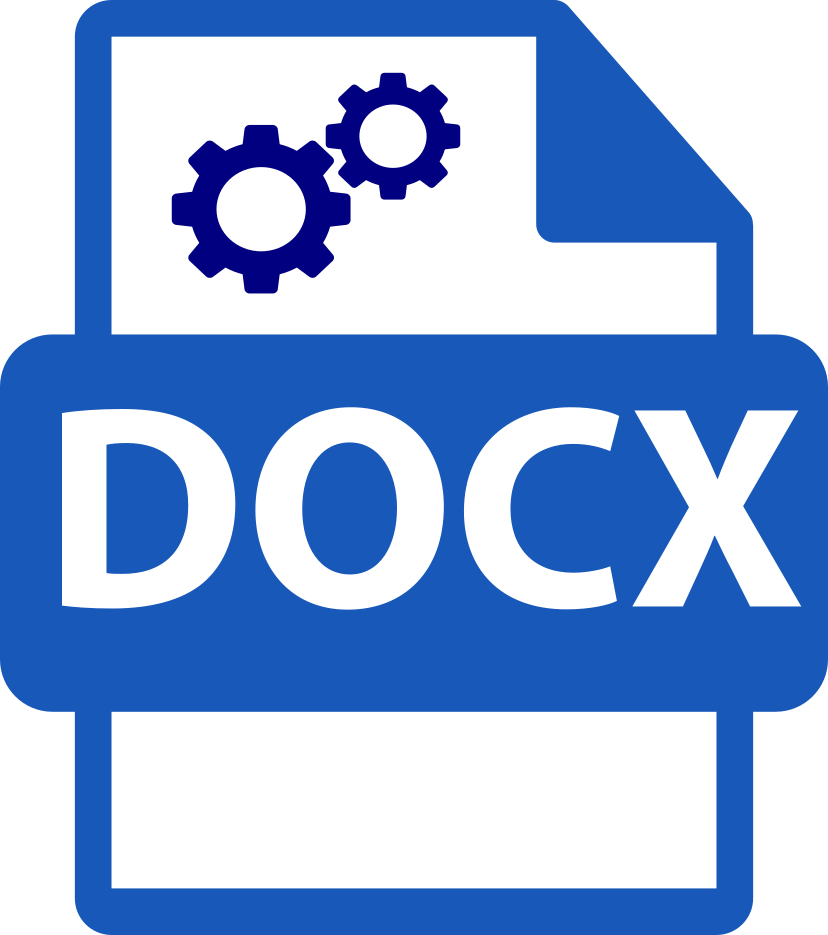
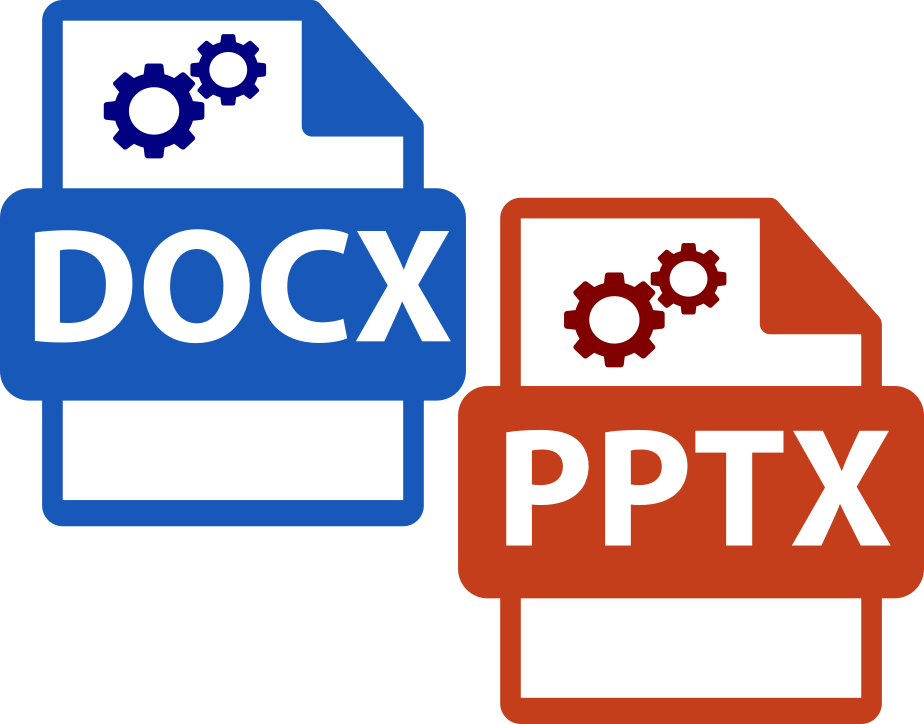
Add pptx generation

diff --git a/app.js b/app.js
@@ -1,6 +1,4 @@
-function generate() {
-    const txt = document.querySelector('#txt').value;
-
+function parse(txt) {
     const lines = txt.split('\n');
     const items = new Array();
     const re = /^(?<level>#+).*$/
@@ -19,6 +17,12 @@ function generate() {
             })
         }
     }
+    return items;
+}
+
+function generateDocx() {
+    const txt = document.querySelector('#txt').value;
+    const items = parse(txt);
 
     const body = new Array();
     for (var i = 0; i < items.length; i++) {
@@ -46,4 +50,81 @@ function generate() {
         saveAs(blob, "generated.docx");
         console.log("Document created successfully");
     });
+}
+
+function generatePptx() {
+    const TITLE_SLIDE = "Title";
+    const TITLE_CONTENTS_SLIDE = "Title and Contents";
+
+    const txt = document.querySelector('#txt').value;
+    const items = parse(txt);
+
+    const pptx = new PptxGenJS();
+
+    pptx.defineSlideMaster({
+        title: TITLE_SLIDE,
+        type: 'ctrTitle',
+        objects: [{
+            placeholder: {
+                options: { name: "title", type: "title", x: 1.25, y: 0.92, w: 7.5, h: 1.95 },
+            },
+        }, ],
+    });
+
+    pptx.defineSlideMaster({
+        title: TITLE_CONTENTS_SLIDE,
+        type: 'ctr',
+        objects: [{
+                placeholder: {
+                    options: { name: "title", type: "title", x: 0.69, y: 0.3, w: 8.6, h: 1.09 },
+                },
+            },
+            {
+                placeholder: {
+                    options: { name: "body", type: "body", x: 0.7, y: 1.5, w: 8.6, h: 3.57 },
+                },
+            },
+        ],
+    });
+
+    let slide = null;
+    let body = null;
+    for (var i = 0; i < items.length; i++) {
+        const item = items[i];
+        const level = item.level;
+        const text = item.text;
+
+        if (level == 1) {
+            slide = pptx.addSlide({ masterName: TITLE_SLIDE });
+            slide.addText(text, { placeholder: "title" });
+        } else if (level == 2) {
+            if (slide != null && body != null && body.length > 0) {
+                slide.addText(body, { placeholder: "body" });
+                slide = null;
+                body = null;
+            }
+
+            slide = pptx.addSlide({ masterName: TITLE_CONTENTS_SLIDE });
+            slide.addText(text, { placeholder: "title" });
+        } else if (text != null && text.length > 0) {
+            console.log(text);
+            if (body == null) {
+                body = new Array();
+            }
+            if (level == 0) {
+                body.push({ text: text, options: { fontSize: 20, softBreakBefore: true } });
+            } else {
+                body.push({ text: text, options: { fontSize: 24 - 2 * level, indentLevel: level - 3, bullet: true } });
+            }
+        }
+    }
+
+    // For final slide
+    if (slide != null && body != null && body.length > 0) {
+        slide.addText(body, { placeholder: "body" });
+        slide = null;
+        body = null;
+    }
+
+    pptx.writeFile({ fileName: "generated.pptx" });
 }

diff --git a/index.html b/index.html
@@ -8,6 +8,8 @@
     <link rel="stylesheet" href="./style.css">
     <script src="https://unpkg.com/docx@7.1.0/build/index.js"></script>
     <script src="https://cdnjs.cloudflare.com/ajax/libs/FileSaver.js/1.3.8/FileSaver.js"></script>
+    <script src="https://cdn.jsdelivr.net/npm/pptxgenjs@3.9.0/dist/pptxgen.bundle.js"></script>
+
 
     <link id="icon" rel="icon" href="./icon.svg" type="image/svg+xml">
 
@@ -19,22 +21,31 @@
 
 <body>
     <h1 id="title">DocxGen</h1>
-    <p>Docx generator from simple text</p>
+    <p>Docx and Pptx generator from simple text</p>
     <textarea id="txt" rows="20" cols="80">
-# Title
-## Header 1
-Some text
-### Header 2
-Some text
-#### Header 3
-Some text
-##### Header 4
-Some text
-###### Header 5
-Some text
+# How to generate Docx and Pptx
 
+## You can use # mark a as a header
+
+- # is for a title
+- ## is for a header1 or a slide title
+- ### is for a header2 or a slide item
+- #### is for a header3 or an indented slide item
+- ##### is for a header4 or an indented slide item
+- no mark is for a paragraph
+
+## Generating Docx
+
+You can generate a docx file from a simple text.
+Please push the button "Generate Docx" and you will see a new file.
+
+## Generating Pptx
+
+### You can generate a pptx file from a simple text.
+Please push the button "Generate Pptx" and you will see a new file.
 </textarea>
     <br>
-    <button id="generate" type="button" onclick="generate()">Generate Docx</button>
+    <button id="generate_docx" type="button" onclick="generateDocx()">Generate Docx</button>
+    <button id="generate_pptx" type="button" onclick="generatePptx()">Generate Pptx</button>
     <script src="app.js"></script>
 </body>

diff --git a/style.css b/style.css
@@ -12,7 +12,7 @@
     font-size: large;
 }
 
-#generate {
+#generate_docx {
     font-family: "Yu Gothic UI", "Meiryo UI", "ヒラギノ角ゴ Pro W3", "Hiragino Kaku Gothic Pro", "メイリオ", sans-serif;
     font-size: large;
     content: "";
@@ -22,5 +22,18 @@
     background-size: contain;
     vertical-align: middle;
     background-color: #aaffff;
+    box-shadow: #444444 0.2em 0.2em 0.3em;
+}
+
+#generate_pptx {
+    font-family: "Yu Gothic UI", "Meiryo UI", "ヒラギノ角ゴ Pro W3", "Hiragino Kaku Gothic Pro", "メイリオ", sans-serif;
+    font-size: large;
+    content: "";
+    display: inline-block;
+    width: 10em;
+    height: 3em;
+    background-size: contain;
+    vertical-align: middle;
+    background-color: #ff7777;
     box-shadow: #444444 0.2em 0.2em 0.3em;
 }
